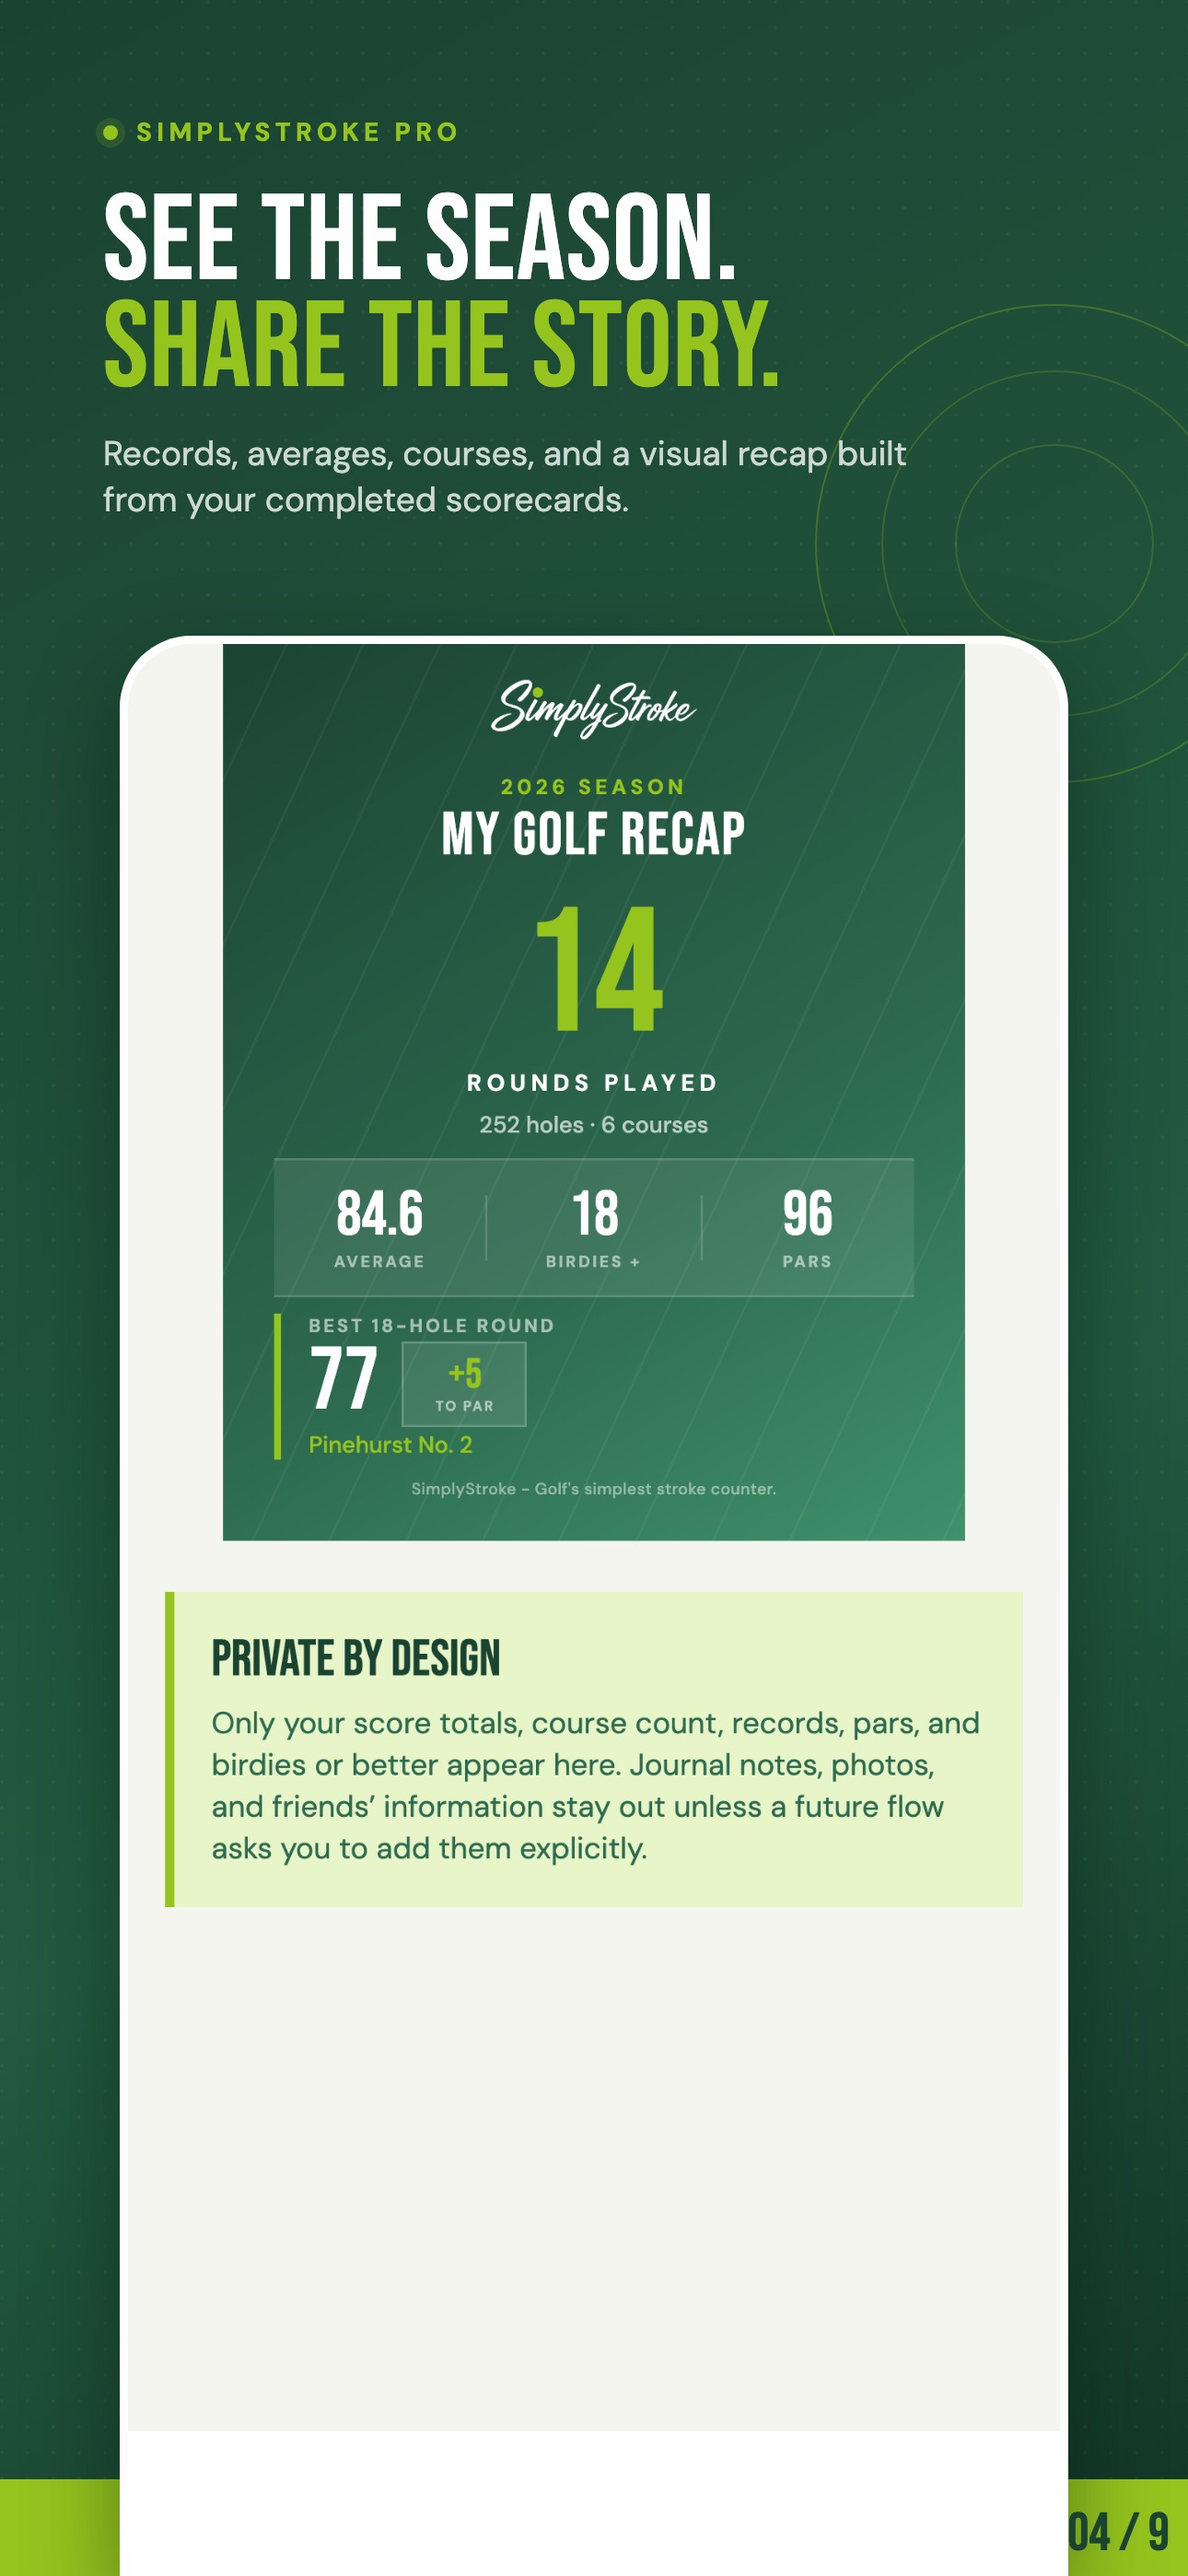
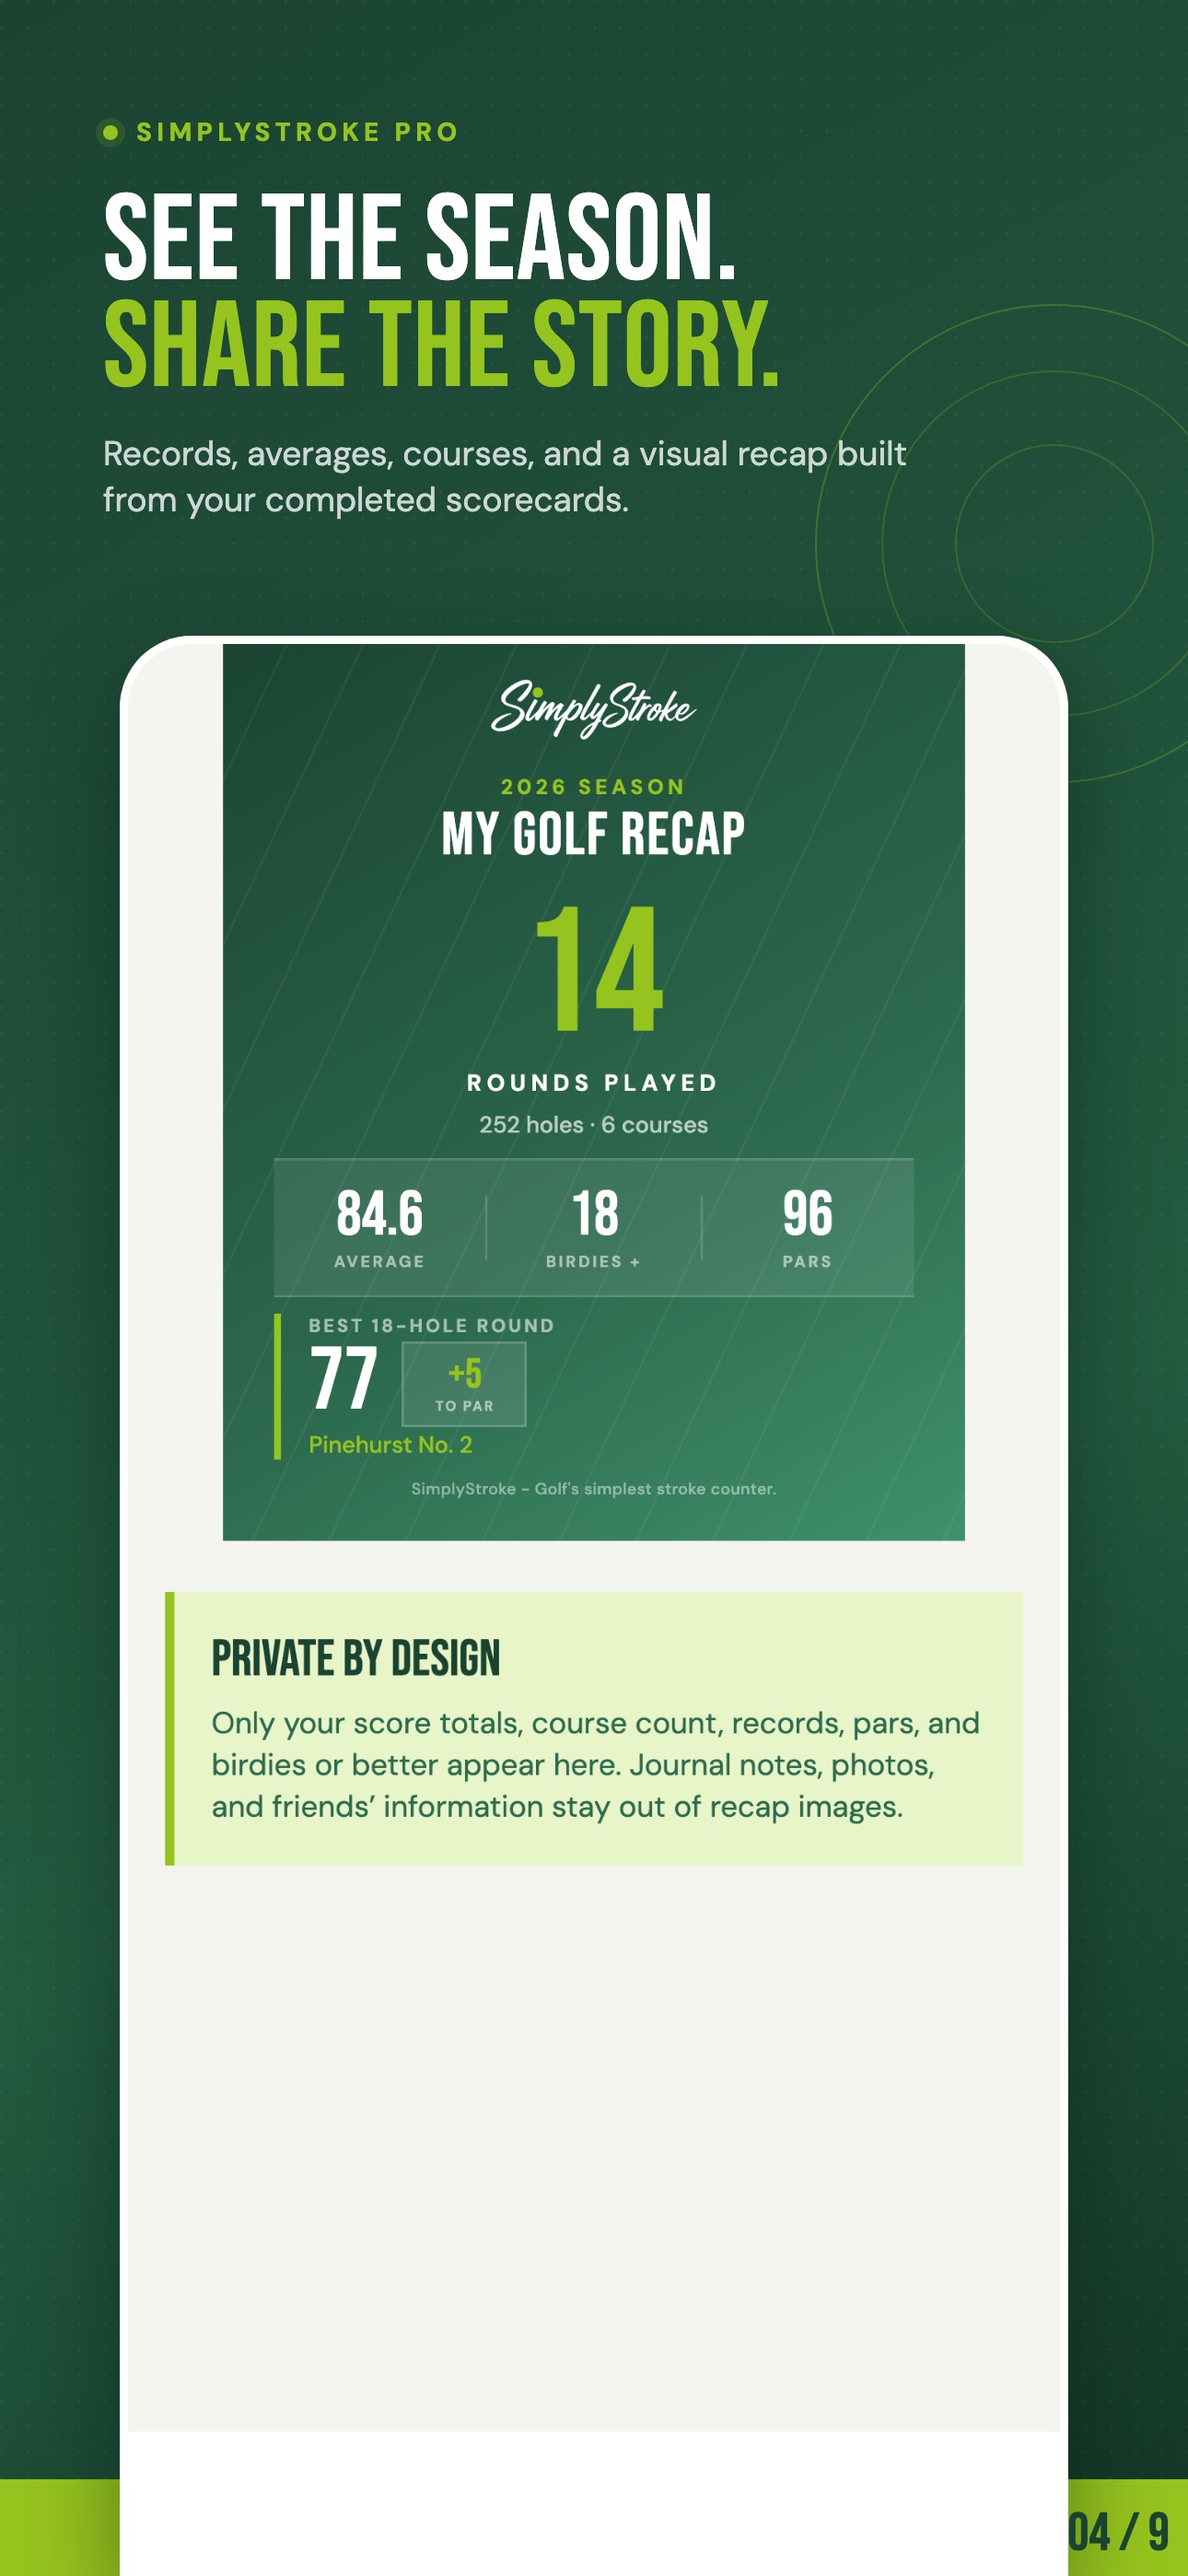
Clarify season recap privacy artwork

Changed region(s): [[0.124, 0.6845, 0.8682, 0.7468]]

diff --git a/assets/app-store/1.0.4/README.md b/assets/app-store/1.0.4/README.md
@@ -2,7 +2,7 @@
 
 Status: **pre-release draft; do not upload yet.**
 
-These nine 1290 × 2796 JPEGs use an accepted Apple 6.9-inch iPhone screenshot size. They contain no alpha channel. Images 04–07 were recaptured from PR #80 candidate `ec1c1514d70b553bae9296151eb6a1b586a97c0b` through development-only, write-free fixture routes at a 402 × 874 CSS viewport and 3× device scale. The `marketing=1` fixture parameter only hides internal QA notices from these public-facing compositions; it is disabled outside development and does not change release behavior. Image 01 was captured from its `d417bc2` ancestor and image 09 from its `d55bd17` ancestor; neither surface changed through the current candidate. Images 03 and 08 use real 1.0.4 review components captured from candidate `a6553ee8cffce832e501289276551ec25c760910`; image 02 uses the user-invoked Watch UI at native candidate `6998ca8635bd852025a8ac81e32ff6d5ca4c812a`. The journal, season, crews, trips, and OCR data are fictional, write-free review fixtures.
+These nine 1290 × 2796 JPEGs use an accepted Apple 6.9-inch iPhone screenshot size. They contain no alpha channel. Image 04 was recaptured from PR #80 candidate `85bd9390a8d06995f48762e31ca1d8fdb0df1a8f`; images 05–07 were captured from its `ec1c1514d70b553bae9296151eb6a1b586a97c0b` parent. Those captures use development-only, write-free fixture routes at a 402 × 874 CSS viewport and 3× device scale. The `marketing=1` fixture parameter only hides internal QA notices from these public-facing compositions; it is disabled outside development and does not change release behavior. Image 01 was captured from its `d417bc2` ancestor and image 09 from its `d55bd17` ancestor; neither surface changed through the current candidate. Images 03 and 08 use real 1.0.4 review components captured from candidate `a6553ee8cffce832e501289276551ec25c760910`; image 02 uses the user-invoked Watch UI at native candidate `6998ca8635bd852025a8ac81e32ff6d5ca4c812a`. The journal, season, crews, trips, and OCR data are fictional, write-free review fixtures.
 
 The `watch/` directory contains three 416 × 496 RGB JPEGs captured directly from the Series 11 simulator at the same native candidate. This is an accepted Apple Watch screenshot size. The files show scoring, the user-opened More menu, and the full-size club list. They are a separate Watch listing set and are not part of the numbered iPhone sequence. Slide 02 reuses the same current scoring capture, so the iPhone and Watch listings cannot drift to different control layouts.
 
